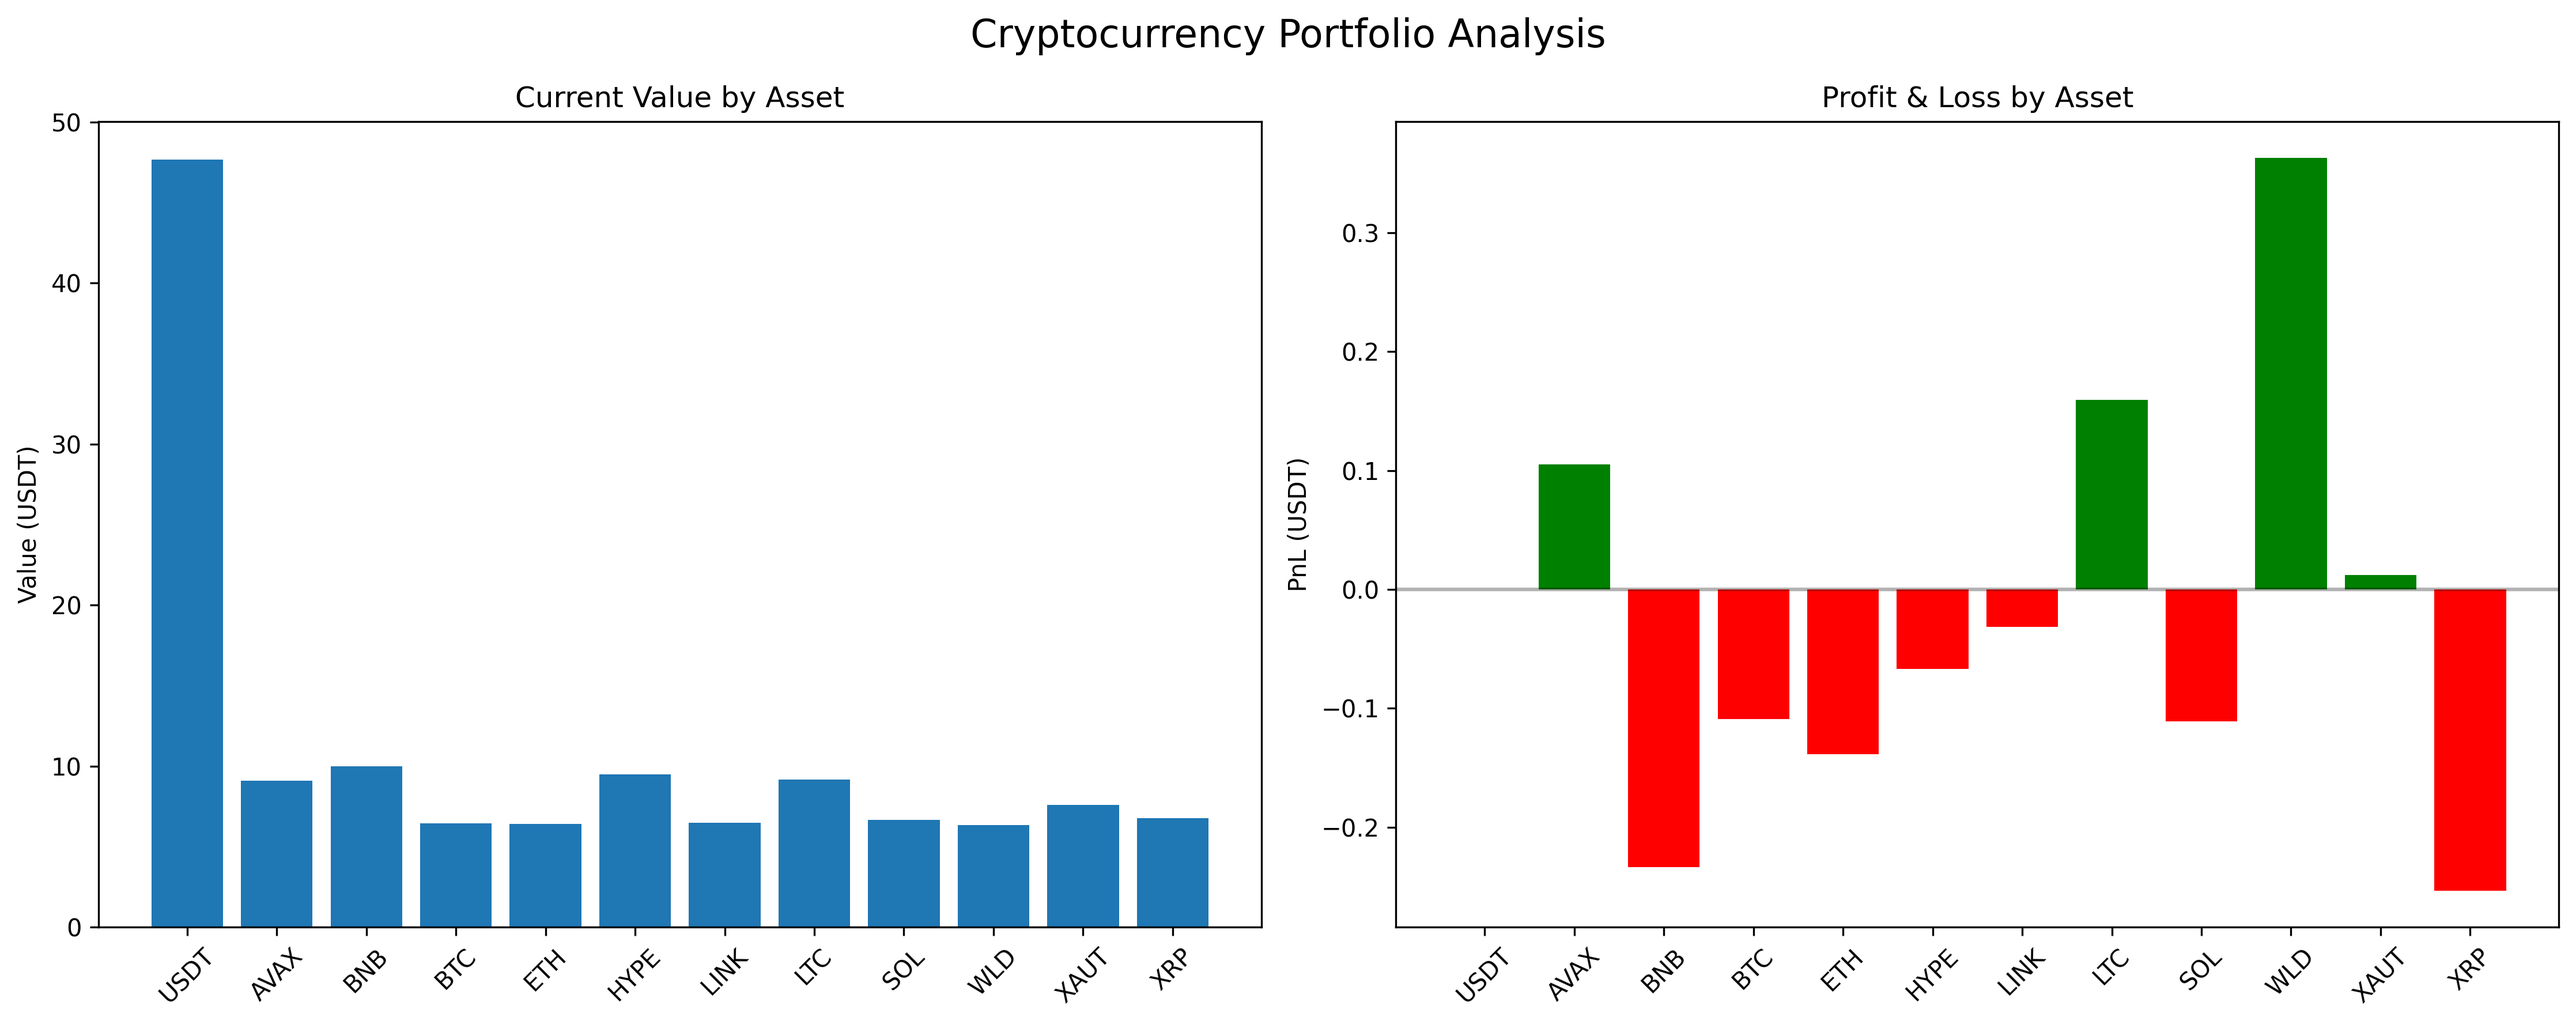
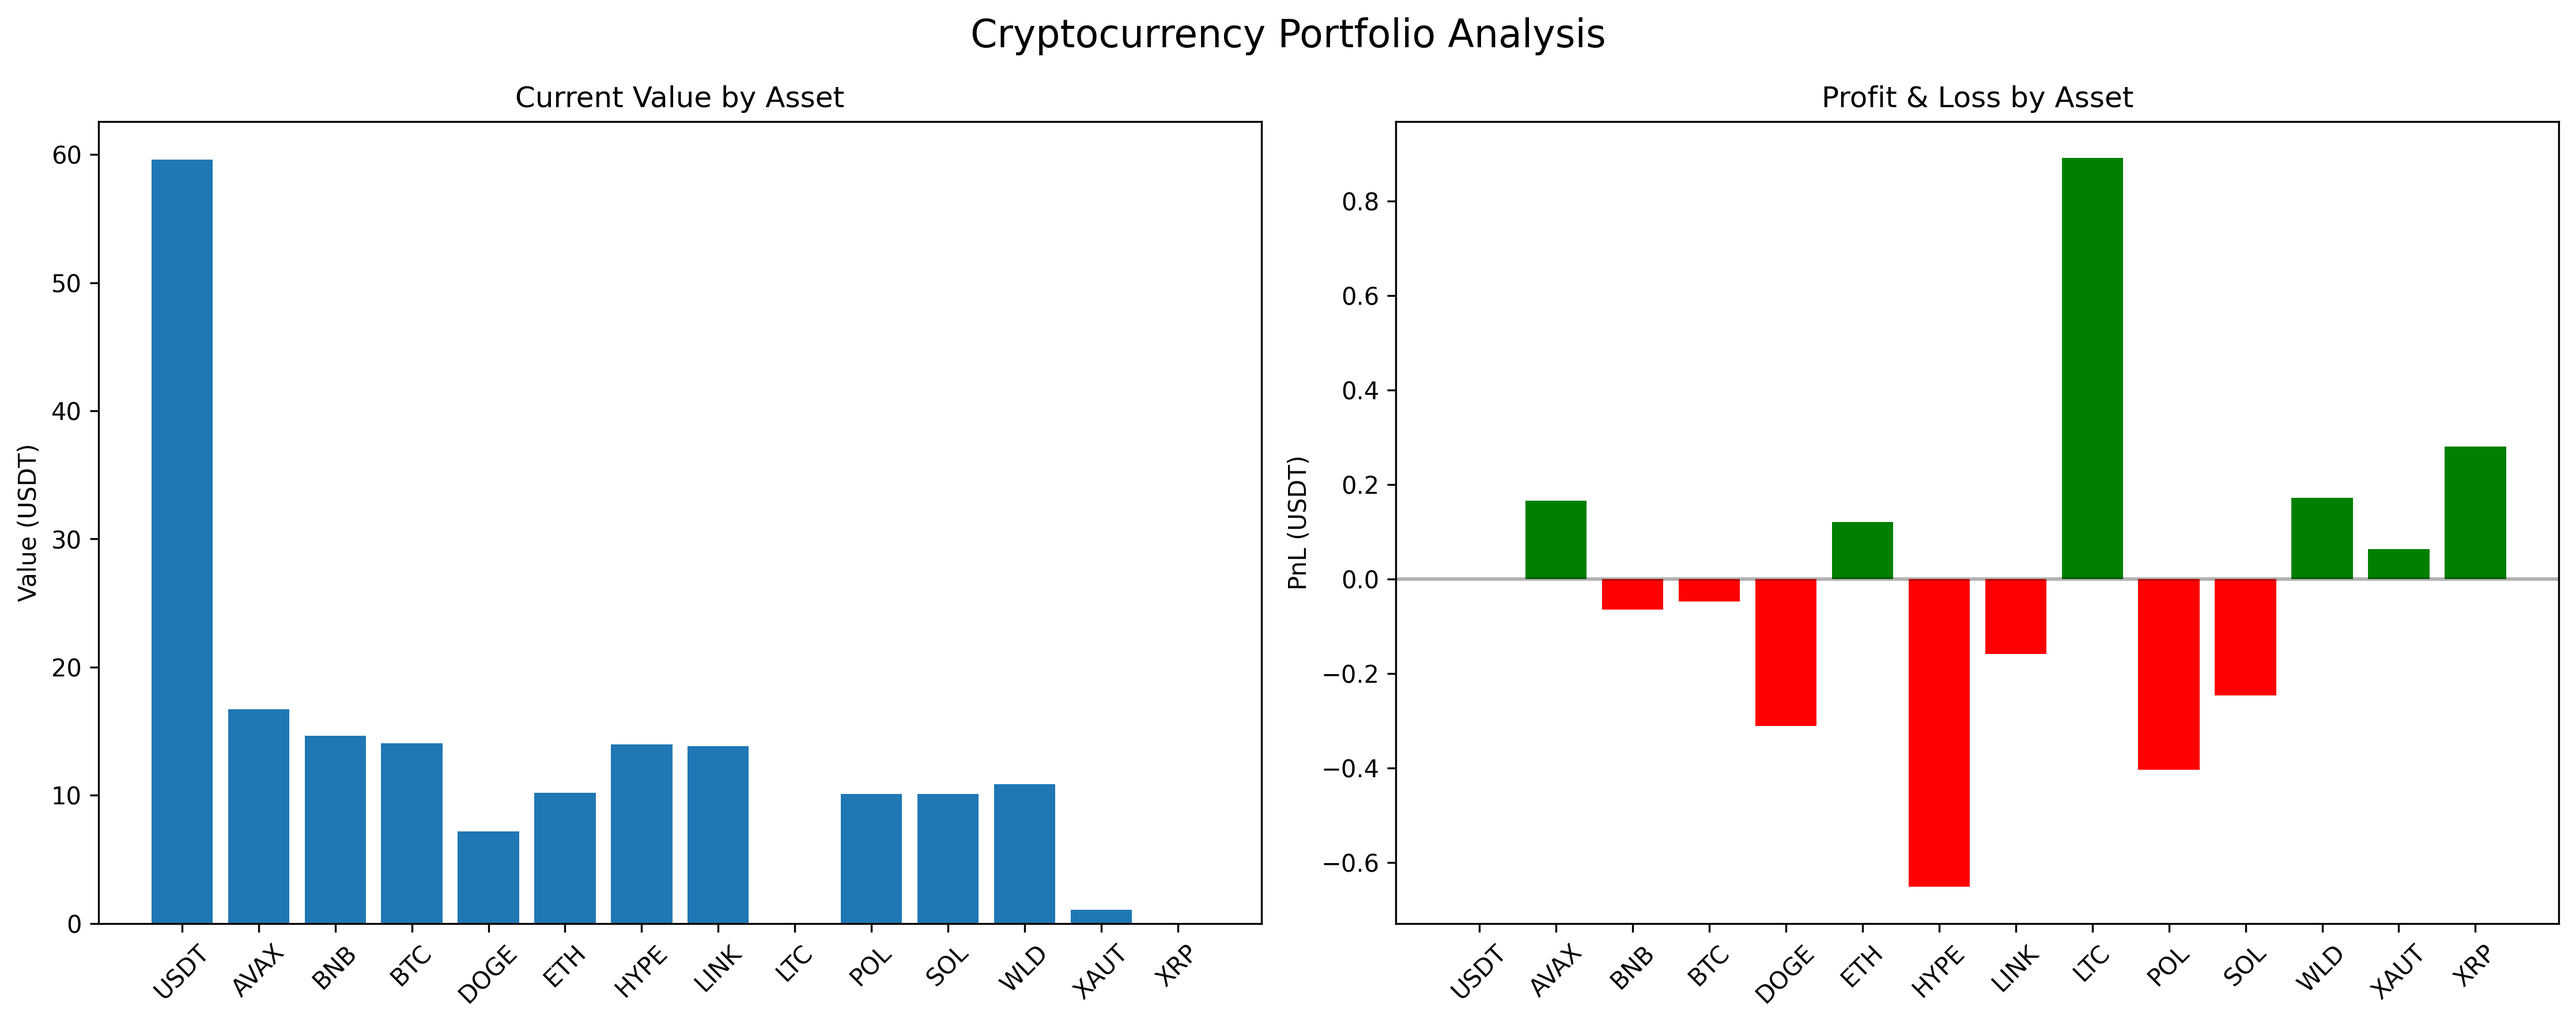
PnL計算処理修正

diff --git a/src/crypto_spot_collector/exchange/bybit.py b/src/crypto_spot_collector/exchange/bybit.py
@@ -33,7 +33,7 @@ class BybitExchange():
         logger.info("Initializing Bybit exchange client")
         self.exchange = ccxt.bybit({
             'apiKey': apiKey,
-            "secret": secret,
+            "secret": secret
         })
         logger.info("Bybit exchange client initialized successfully")
 
@@ -198,9 +198,11 @@ class BybitExchange():
     def fetch_average_buy_price_spot(self, symbol: str) -> float:
         logger.debug(f"Fetching average buy price for {symbol} spot")
         try:
+            # 2025/01/01 以降の注文を取得(msで指定)
+            since_ms = int(datetime(2025, 11, 1).timestamp() * 1000)
             orders = self.exchange.fetch_closed_orders(
                 symbol=f"{symbol}/USDT",
-                since=None,
+                since=since_ms,
                 limit=100,
                 params={}
             )
@@ -229,35 +231,97 @@ class BybitExchange():
                 f"Failed to fetch average buy price for {symbol} spot: {e}")
             raise
 
+    def fetch_close_orders_all(self, symbol: str) -> list[dict[str, Any]]:
+        logger.debug(f"Fetching all closed orders for {symbol} spot")
+        all_orders: list[dict[str, Any]] = []
+        try:
+            since_ms = int(datetime(2025, 11, 1).timestamp() * 1000)
+            now_ms = int(datetime.now().timestamp() * 1000)
+            seven_days_ms = 7 * 24 * 60 * 60 * 1000  # 7日間をミリ秒に変換
+
+            while since_ms < now_ms:
+                # 7日間の終了時刻を計算（今日の日付を超えないように）
+                until_ms = min(since_ms + seven_days_ms, now_ms)
+
+                logger.debug(
+                    f"Fetching orders from {datetime.fromtimestamp(since_ms/1000)} to {datetime.fromtimestamp(until_ms/1000)}")
+
+                orders = self.exchange.fetch_closed_orders(
+                    symbol=f"{symbol}/USDT",
+                    since=since_ms,
+                    limit=100,
+                    params={
+                        "until": until_ms,
+                        "paginate": True
+                    }
+                )
+
+                if orders:
+                    logger.debug(
+                        f"Fetched {len(orders)} orders, total so far: {len(all_orders)}")
+                    all_orders.extend(orders)
+
+                # 次の7日間の開始点を設定
+                since_ms = until_ms + 1
+
+            logger.info(
+                f"Total closed orders fetched for {symbol} spot: {len(all_orders)}")
+            return all_orders
+
+        except Exception as e:
+            logger.error(
+                f"Failed to fetch closed orders for {symbol} spot: {e}")
+            raise
+
     def get_current_spot_pnl(self, symbol: str) -> float:
         try:
-            orders = self.exchange.fetch_closed_orders(
-                symbol=f"{symbol}/USDT",
-                since=None,
-                limit=100,
-                params={}
-            )
+            orders = self.fetch_close_orders_all(symbol=symbol)
+
             buy_orders = [
                 order for order in orders if order['side'] == 'buy' and order['status'] == 'closed']
             total_cost = sum(
                 float(order['cost']) for order in buy_orders)
             total_amount = sum(
                 float(order['amount']) for order in buy_orders)
+            total_fee_amount = sum(
+                float(order['fee']['cost']) for order in buy_orders
+            )
+
+            for buy_order in buy_orders:
+                logger.debug(
+                    f"Buy Order - ID: {buy_order['id']}, Amount: {buy_order['amount']}, Cost: {buy_order['cost']}, Fee: {buy_order['fee']['cost']}")
+
+            sell_orders = [
+                order for order in orders if order['side'] == 'sell' and order['status'] == 'closed']
+            total_sell_value = sum(
+                float(order['cost']) for order in sell_orders)
+            total_amount_sold = sum(
+                float(order['filled']) for order in sell_orders)
 
             if total_amount == 0:
                 logger.warning(
                     f"No completed buy orders found for {symbol} spot")
                 return 0.0
 
+            current_spot_amount = total_amount - total_fee_amount - total_amount_sold
+
             logger.debug(
-                f"Total cost: {total_cost}, Total amount: {total_amount}")
+                f"Total buy cost: {total_cost}, Total buy amount: {total_amount}, Total buy fee amount: {total_fee_amount}")
+            logger.debug(
+                f"Total sell value: {total_sell_value}, Total amount sold: {total_amount_sold}"
+            )
+            logger.debug(
+                f"Current spot amount for {symbol}: {current_spot_amount}")
 
             average_price = total_cost / total_amount
+
             logger.info(
                 f"Average buy price for {symbol} spot: {average_price}")
 
             current_price = self.fetch_price(f"{symbol}/USDT")["last"]
-            pnl = round((current_price - average_price) * total_amount, 5)
+
+            pnl = round((current_price - average_price)
+                        * current_spot_amount, 5)
             logger.info(
                 f"Current PnL for {symbol} spot: {pnl} (Current Price: {current_price})")
 

diff --git a/src/crypto_spot_collector/scripts/test_exchange.py b/src/crypto_spot_collector/scripts/test_exchange.py
@@ -18,60 +18,71 @@ async def main() -> None:
         secret=secrets["bybit"]["secret"]
     )
 
-    portfolio = bybit_exchange.get_spot_portfolio()
-    print("spot portfolio:")
-    for asset in portfolio:
-        print(
-            f"Asset: {asset.symbol} | Total Amount: {asset.total_amount} | Current Value: {asset.current_value} | PnL: {asset.profit_loss}"
-        )
+    # average = bybit_exchange.fetch_average_buy_price_spot("LTC")
+    # print(f"ltc average buy price: {average}")
 
-    # ポートフォリオデータをDataFrameに変換
-    portfolio_data = []
-    for asset in portfolio:
-        portfolio_data.append({
-            'Symbol': asset.symbol,
-            'Total_Amount': asset.total_amount,
-            'Current_Value': asset.current_value,
-            'PnL': asset.profit_loss
-        })
+    ltc = bybit_exchange.get_current_spot_pnl("LTC")
+    print(f"ltc pnl: {ltc:+.5f} USDT")
 
-    df = pd.DataFrame(portfolio_data)
-    print("\nPortfolio DataFrame:")
-    print(df)
+    # all_orders = bybit_exchange.fetch_close_orders_all(
+    #     symbol="LTC"
+    # )
+    # print(f"all ltc orders: {all_orders}")
 
-    # グラフの表示
-    if not df.empty:
-        # 日本語フォントの設定
-        plt.rcParams['font.family'] = 'DejaVu Sans'
+    # portfolio = bybit_exchange.get_spot_portfolio()
+    # print("spot portfolio:")
+    # for asset in portfolio:
+    #     print(
+    #         f"Asset: {asset.symbol} | Total Amount: {asset.total_amount} | Current Value: {asset.current_value} | PnL: {asset.profit_loss}"
+    #     )
 
-        # サブプロットの作成
-        fig, axes = plt.subplots(1, 2, figsize=(15, 6))
-        fig.suptitle('Cryptocurrency Portfolio Analysis', fontsize=16)
+    # # ポートフォリオデータをDataFrameに変換
+    # portfolio_data = []
+    # for asset in portfolio:
+    #     portfolio_data.append({
+    #         'Symbol': asset.symbol,
+    #         'Total_Amount': asset.total_amount,
+    #         'Current_Value': asset.current_value,
+    #         'PnL': asset.profit_loss
+    #     })
 
-        # 1. 現在価値の棒グラフ
-        axes[0].bar(df['Symbol'], df['Current_Value'])
-        axes[0].set_title('Current Value by Asset')
-        axes[0].set_ylabel('Value (USDT)')
-        axes[0].tick_params(axis='x', rotation=45)
+    # df = pd.DataFrame(portfolio_data)
+    # print("\nPortfolio DataFrame:")
+    # print(df)
 
-        # 2. PnLの棒グラフ（正負で色分け）
-        colors = ['green' if x >= 0 else 'red' for x in df['PnL']]
-        axes[1].bar(df['Symbol'], df['PnL'], color=colors)
-        axes[1].set_title('Profit & Loss by Asset')
-        axes[1].set_ylabel('PnL (USDT)')
-        axes[1].tick_params(axis='x', rotation=45)
-        axes[1].axhline(y=0, color='black', linestyle='-', alpha=0.3)
+    # # グラフの表示
+    # if not df.empty:
+    #     # 日本語フォントの設定
+    #     plt.rcParams['font.family'] = 'DejaVu Sans'
 
-        plt.tight_layout()
+    #     # サブプロットの作成
+    #     fig, axes = plt.subplots(1, 2, figsize=(15, 6))
+    #     fig.suptitle('Cryptocurrency Portfolio Analysis', fontsize=16)
 
-        # 画像として保存
-        plt.savefig('portfolio_analysis.png', dpi=300, bbox_inches='tight')
-        print("\nグラフを 'portfolio_analysis.png' として保存しました")
+    #     # 1. 現在価値の棒グラフ
+    #     axes[0].bar(df['Symbol'], df['Current_Value'])
+    #     axes[0].set_title('Current Value by Asset')
+    #     axes[0].set_ylabel('Value (USDT)')
+    #     axes[0].tick_params(axis='x', rotation=45)
 
-        # グラフを表示
-        plt.show()
-    else:
-        print("ポートフォリオデータが空です")
+    #     # 2. PnLの棒グラフ（正負で色分け）
+    #     colors = ['green' if x >= 0 else 'red' for x in df['PnL']]
+    #     axes[1].bar(df['Symbol'], df['PnL'], color=colors)
+    #     axes[1].set_title('Profit & Loss by Asset')
+    #     axes[1].set_ylabel('PnL (USDT)')
+    #     axes[1].tick_params(axis='x', rotation=45)
+    #     axes[1].axhline(y=0, color='black', linestyle='-', alpha=0.3)
+
+    #     plt.tight_layout()
+
+    #     # 画像として保存
+    #     plt.savefig('portfolio_analysis.png', dpi=300, bbox_inches='tight')
+    #     print("\nグラフを 'portfolio_analysis.png' として保存しました")
+
+    #     # グラフを表示
+    #     plt.show()
+    # else:
+    #     print("ポートフォリオデータが空です")
 
     # overall_pnl = 0.0
     # for asset in portfolio:
